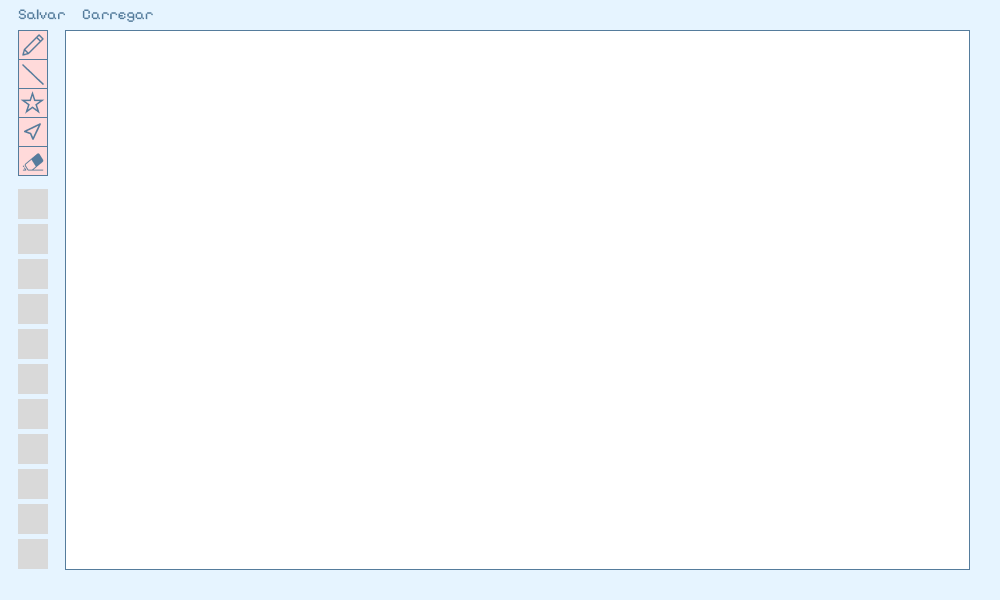
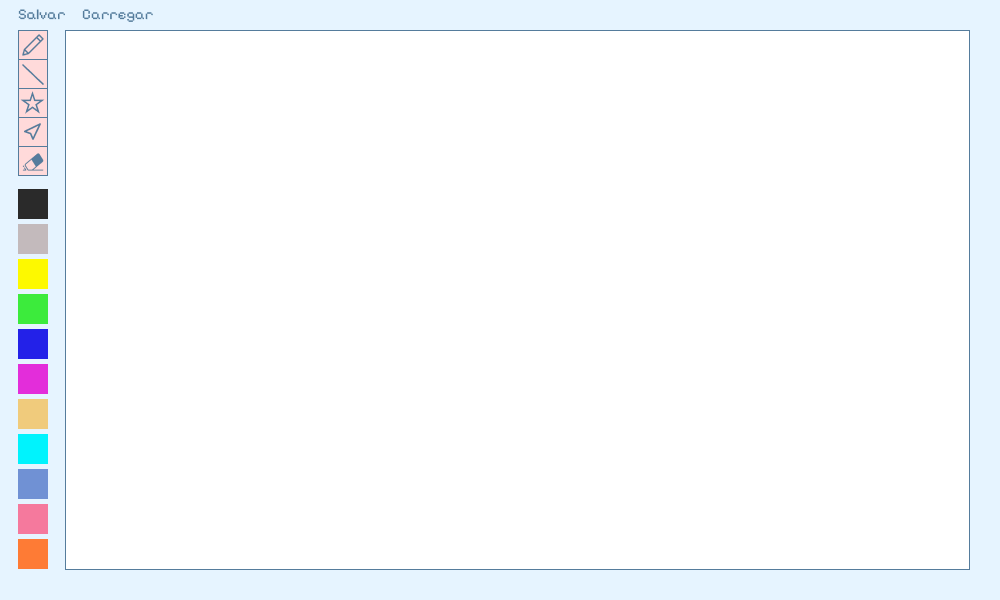
adiciona cores

Changed region(s): [[0.0, 0.3, 0.062, 0.96]]

diff --git a/interface.c b/interface.c
@@ -4,12 +4,14 @@
 #include "entrada.h"
 
 #define NUM_BOTOES 5
+#define NUM_CORES 11
 
 GLuint texturaGui;
 int guiW, guiH;
 
 extern Estado estadoAtual;
 extern int totalPontosPoligono;
+extern float corAtual[3];
 
 BotaoGui botoes[] = {
     {18, 541, 47, 570,CRIAR_PONTO},
@@ -17,6 +19,20 @@ BotaoGui botoes[] = {
     {18, 483, 47, 512,CRIAR_POLIGONO},
     {18, 454, 47, 483,SELECAO},
     {18, 425, 47, 454,DELETAR},
+};
+
+BotaoCor botoesCor[] = {
+    {18, 600-218, 47, 600-189, 42/255.0f, 42/255.0f, 42/255.0f}, // preto
+    {18, 600-253, 47, 600-224, 195/255.0f, 186/255.0f, 188/255.0f}, // cinza claro
+    {18, 600-288, 47, 600-259, 253/255.0f, 249/255.0f, 0/255.0f}, // amarelo
+    {18, 600-323, 47, 600-294, 60/255.0f, 235/255.0f, 60/255.0f}, // verde
+    {18, 600-358, 47, 600-329, 35/255.0f, 33/255.0f, 232/255.0f}, // azul
+    {18, 600-393, 47, 600-364, 227/255.0f, 45/255.0f, 218/255.0f}, // magenta
+    {18, 600-428, 47, 600-399, 240/255.0f, 203/255.0f, 124/255.0f}, // bege
+    {18, 600-463, 47, 600-434, 0/255.0f, 243/255.0f, 253/255.0f}, // ciano
+    {18, 600-498, 47, 600-469, 112/255.0f, 145/255.0f, 212/255.0f}, // azul claro
+    {18, 600-533, 47, 600-504, 245/255.0f, 121/255.0f, 157/255.0f}, // rosa
+    {18, 600-568, 47, 600-539, 254/255.0f, 123/255.0f, 53/255.0f}, // laranja
 };
 
 void carregarGui(void) {
@@ -48,6 +64,21 @@ void desenhaGui(void) {
             glEnd();
         }
     }
+     // destaque da cor ativa
+    for (int i = 0; i < NUM_CORES; i++) {
+        if (botoesCor[i].r == corAtual[0] &&
+            botoesCor[i].g == corAtual[1] &&
+            botoesCor[i].b == corAtual[2]) {
+            glColor3f(1, 1, 1);
+            glLineWidth(2);
+            glBegin(GL_LINE_LOOP);
+                glVertex2f(botoesCor[i].x1, botoesCor[i].y1);
+                glVertex2f(botoesCor[i].x2, botoesCor[i].y1);
+                glVertex2f(botoesCor[i].x2, botoesCor[i].y2);
+                glVertex2f(botoesCor[i].x1, botoesCor[i].y2);
+            glEnd();
+        }
+    }
 }
 
 int verificarCliqueGui(float mx, float my){
@@ -56,6 +87,15 @@ int verificarCliqueGui(float mx, float my){
             my >= botoes[i].y1 && my <= botoes[i].y2) {
             estadoAtual = botoes[i].estado;
             if (botoes[i].estado == CRIAR_POLIGONO) totalPontosPoligono = 0;
+            return 1;
+        }
+    }
+    for (int i = 0; i < NUM_CORES; i++) {
+        if (mx >= botoesCor[i].x1 && mx <= botoesCor[i].x2 &&
+            my >= botoesCor[i].y1 && my <= botoesCor[i].y2) {
+            corAtual[0] = botoesCor[i].r;
+            corAtual[1] = botoesCor[i].g;
+            corAtual[2] = botoesCor[i].b;
             return 1;
         }
     }

diff --git a/objetos.c b/objetos.c
@@ -35,3 +35,9 @@ Objeto criaPoligono(Ponto* pontos, int quant) {
     }
     return obj;
 }
+
+void adicionarCor(Objeto* objeto, float r,float g,float b){
+    objeto->cor[0]=r;
+    objeto->cor[1]=g;
+    objeto->cor[2]=b;
+}

diff --git a/interface.h b/interface.h
@@ -8,6 +8,11 @@ typedef struct {
     Estado estado;
 } BotaoGui;
 
+typedef struct {
+    float x1, y1, x2, y2;
+    float r, g, b;
+} BotaoCor;
+
 void carregarGui(void);
 void desenhaGui(void);
 int verificarCliqueGui(float mx, float my);

diff --git a/entrada.c b/entrada.c
@@ -10,6 +10,7 @@
 
 Estado estadoAtual;
 Objeto* objetoSelecionado;
+float corAtual[3]={0.16, 0.16, 0.16};
 
 Ponto inicioLinha;
 Ponto pontosPoligono[100]; // vetor de pontos que foram clicados
@@ -34,6 +35,7 @@ void mouseClick(int botao, int state, int x, int y) {
        switch(estadoAtual){
            case CRIAR_PONTO:{
                Objeto ponto = criaPonto(mouse_x,mouse_y);
+               adicionarCor(&ponto,corAtual[0],corAtual[1],corAtual[2]);
                inserirLista(ponto);
                glutPostRedisplay();
                break;
@@ -46,6 +48,7 @@ void mouseClick(int botao, int state, int x, int y) {
            }
            case CRIAR_LINHA_P2:{
                Objeto linha = criaLinha(inicioLinha.x,inicioLinha.y,mouse_x,mouse_y);
+               adicionarCor(&linha,corAtual[0],corAtual[1],corAtual[2]);
                inserirLista(linha);
                glutPostRedisplay();
                estadoAtual= CRIAR_LINHA_P1;
@@ -86,6 +89,7 @@ void teclado(unsigned char key, int x, int y) {
     // ---- fechar poligono ----
     else if ((key == 'p' || key == 16 || key == 13) && estadoAtual == CRIAR_POLIGONO && totalPontosPoligono >= 3) {
         Objeto poligono = criaPoligono(pontosPoligono, totalPontosPoligono);
+        adicionarCor(&poligono,corAtual[0],corAtual[1],corAtual[2]);
         inserirLista(poligono);
         totalPontosPoligono = 0;
         glutPostRedisplay();

diff --git a/main.c b/main.c
@@ -10,9 +10,11 @@
 #include "entrada.h"
 #include "interface.h"
 
+
 extern int larguraTela;
 extern int alturaTela;
 extern Estado estadoAtual;
+extern float corAtual[3];
 
 extern No* lista;
 
@@ -25,7 +27,7 @@ extern Objeto* objetoSelecionado;
 void desenhaObjeto(Objeto* objeto){
     if (objetoSelecionado!=NULL && estadoAtual == SELECAO && objetoSelecionado == objeto ){
             glColor3f(1,0,0);
-    }else{glColor3f(0,0,0);}
+    }else{glColor3f(objeto->cor[0],objeto->cor[1],objeto->cor[2]);}
 
     switch (objeto->tipo){
         case PONTO:

diff --git a/objetos.h b/objetos.h
@@ -24,6 +24,7 @@ typedef enum{
 
 typedef struct{
     TipoObjeto tipo;
+    float cor[3];
     union{
         Ponto ponto;
         Linha linha;
@@ -34,6 +35,7 @@ typedef struct{
 Objeto criaPonto(float x, float y);
 Objeto criaLinha(float x1, float y1, float x2, float y2);
 Objeto criaPoligono(Ponto* pontos, int quant);
+void adicionarCor(Objeto* objeto, float r,float g,float b);
 
 
 #endif